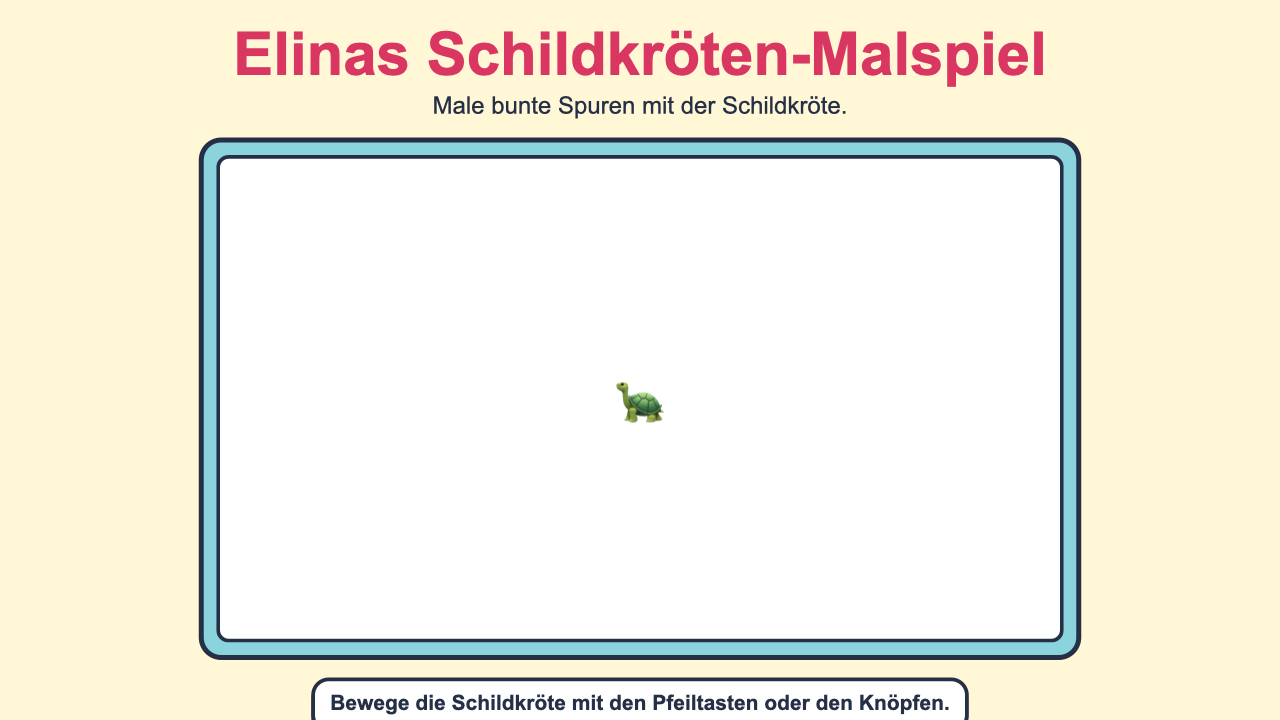
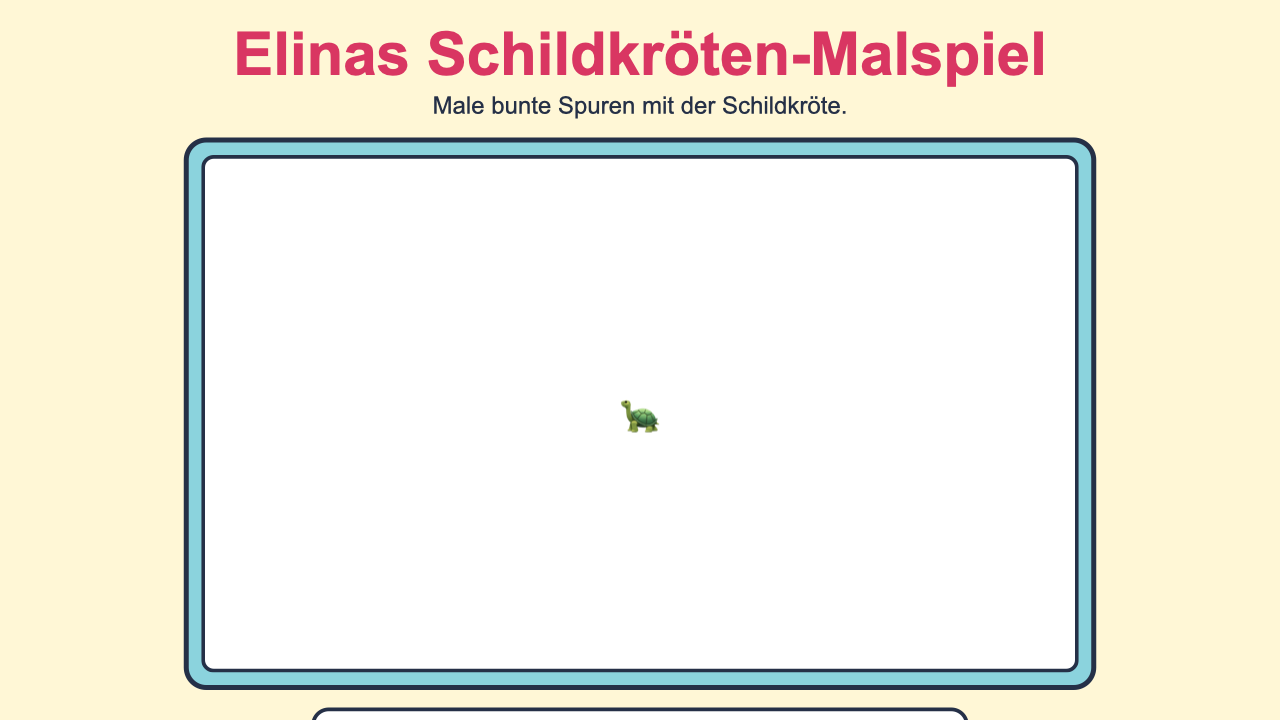
Preserve local Formenmalen layout and preview refinements

Changed region(s): [[0.125, 0.1833, 0.875, 1.0], [0.4688, 0.5194, 0.5312, 0.6111]]

diff --git a/projects/formenmalen/index.html b/projects/formenmalen/index.html
@@ -4,7 +4,7 @@
     <meta charset="utf-8">
     <meta name="viewport" content="width=device-width, initial-scale=1">
     <title>Elinas Schildkröten-Malspiel</title>
-    <link rel="stylesheet" href="style.css?v=20260619f">
+    <link rel="stylesheet" href="style.css?v=20260619g">
   </head>
   <body>
     <main class="app">
@@ -15,7 +15,7 @@
 
       <section class="buehne" aria-label="Malfeld">
         <div class="malfeld-rahmen">
-          <canvas id="malfeld" width="672" height="384"></canvas>
+          <canvas id="malfeld" width="696" height="408"></canvas>
           <div id="schildkroete" aria-hidden="true">🐢</div>
         </div>
       </section>
@@ -42,6 +42,6 @@
       </section>
     </main>
 
-    <script src="script.js?v=20260619e"></script>
+    <script src="script.js?v=20260619g"></script>
   </body>
 </html>

diff --git a/index.html b/index.html
@@ -42,7 +42,7 @@
         <div class="preview-stack" aria-label="Vorschau der Projekte">
           <img
             class="preview preview-one"
-            src="assets/formenmalen-preview.png?v=20260619d"
+            src="assets/formenmalen-preview.png?v=20260619e"
             alt="Vorschau von Elinas Schildkröten-Malspiel"
           >
           <img
@@ -115,7 +115,7 @@
           <article class="project-card">
             <a class="project-image-link" href="./projects/formenmalen/" aria-label="Formenmalen öffnen">
               <img
-                src="assets/formenmalen-preview.png?v=20260619d"
+                src="assets/formenmalen-preview.png?v=20260619e"
                 alt="Malfeld mit Schildkröte und bunten Punkten"
               >
             </a>

diff --git a/projects/formenmalen/style.css b/projects/formenmalen/style.css
@@ -35,7 +35,7 @@ p {
 }
 
 .buehne {
-  width: min(100%, 706px);
+  width: min(100%, 730px);
   margin: 0 auto;
   border: 4px solid #253047;
   border-radius: 18px;
@@ -47,7 +47,7 @@ p {
   box-sizing: content-box;
   position: relative;
   width: calc(100% - 6px);
-  aspect-ratio: 7 / 4;
+  aspect-ratio: 29 / 17;
   overflow: hidden;
   border: 3px solid #253047;
   border-radius: 10px;
@@ -64,11 +64,11 @@ canvas {
   position: absolute;
   left: 50%;
   top: 50%;
-  width: calc(100% / 14);
-  height: 12.5%;
+  width: calc(100% * 3 / 58);
+  height: calc(100% * 3 / 34);
   display: grid;
   place-items: center;
-  font-size: clamp(1rem, 6vw, 2.5rem);
+  font-size: clamp(1rem, 4.8vw, 2rem);
   line-height: 1;
   transform: translate(-50%, -50%);
   user-select: none;

diff --git a/projects/formenmalen/script.js b/projects/formenmalen/script.js
@@ -16,7 +16,7 @@ const farben = [
 ];
 
 const schritt = 24;
-const rand = 24;
+const rand = schritt * 1.5;
 const startX = malfeld.width / 2;
 const startY = malfeld.height / 2;
 const minX = startX - Math.floor((startX - rand) / schritt) * schritt;
